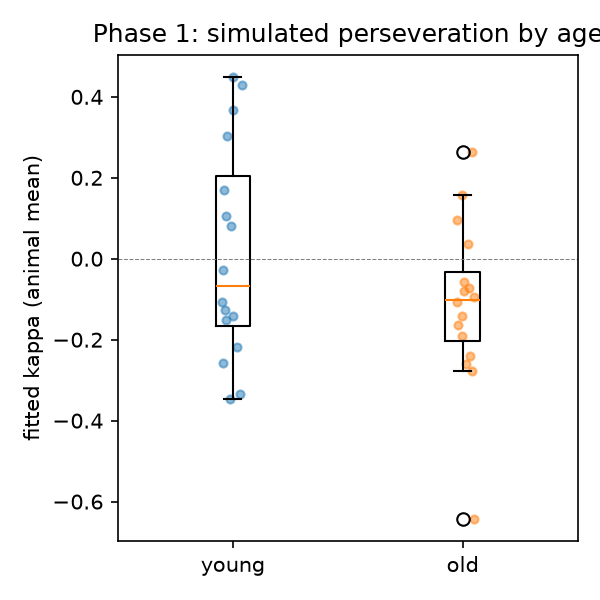
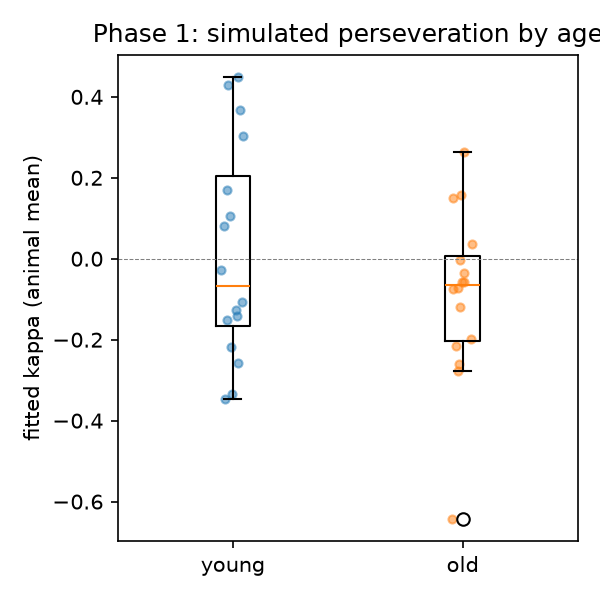
Re-run Phase 1 with real SST/PV fold-changes: direction holds, weaker effect
Young > old kappa direction survives in the headline comparison and in
every swept value of tau_pv, tau_sst, and w_self, but effect size shrinks
(d=0.42 vs 0.52 overall) and no longer reaches significance at n=16/group
now that the fold-changes are the real (milder) ~0.73/1.4 rather than the
placeholder 0.5/2.0. noise_sigma sensitivity also weakens (2/4 vs 3/4).
Direction is not fragile; detecting it with confidence at this real,
modest effect size needs a bigger simulated cohort.

diff --git a/outputs/PHASE1_SUMMARY.md b/outputs/PHASE1_SUMMARY.md
@@ -6,59 +6,69 @@ Raw outputs: `phase1_session_fits_{young,old}.csv`,
 `phase1_kappa_comparison.csv`, `phase1_kappa_by_age.png`,
 `phase1_robustness_report.txt`, `phase1_sweep_*.csv`.
 
-**Caveat up front:** SST/PV fold-change amplitudes are still PLACEHOLDER
-values (2x decrease / 2x increase, direction-only from your stated
-background), not your real slice-electrophysiology numbers. Everything
-below is a qualitative/directional check, not a magnitude match.
+**This version uses real SST/PV fold-changes**, read off the saturating
+plateau (~15 mW) of your SST-Cre;Ai32 / PV-Cre;Ai32 ChR2 charge (fC/pF)
+dose-response curves: SST fold-change (old/young) ~0.73, PV fold-change
+~1.4, ages 6-9wk (young) vs. 16-36wk (old). These are graph-read estimates,
+not exact per-cell table values -- ask for the underlying table if tighter
+precision is wanted. Both are milder than the placeholder values used in
+the first pass (0.5 / 2.0), which matters for what follows: the model's
+effect size shrinks with the real, smaller inhibitory contrast between
+ages. See `sst_pv_model/params.py` for the full derivation and caveats.
 
 ## Headline result
 
 | | young (animal-mean kappa) | old (animal-mean kappa) |
 |---|---|---|
-| All sessions | +0.012 +/- 0.259 | -0.111 +/- 0.200 |
-| Early sessions (0-4) | +0.042 +/- 0.381 | -0.049 +/- 0.307 |
-| Late sessions (5-9) | -0.017 +/- 0.251 | -0.172 +/- 0.291 |
+| All sessions | +0.012 +/- 0.259 | -0.088 +/- 0.205 |
+| Early sessions (0-4) | +0.042 +/- 0.381 | -0.032 +/- 0.306 |
+| Late sessions (5-9) | -0.017 +/- 0.251 | -0.144 +/- 0.282 |
 
-- **Direction is correct**: young (SST-high/PV-low) shows higher fitted
-  kappa than old (SST-low/PV-high) in every session window, with a
-  medium effect size (Cohen's d = 0.52 overall, 0.55 late sessions).
+- **Direction is still correct**: young shows higher fitted kappa than old
+  in every session window, with a small-to-medium effect size (Cohen's
+  d = 0.42 overall, 0.46 late sessions) -- smaller than the placeholder-run's
+  d = 0.52 / 0.55, as expected given the real fold-changes are milder.
 - **Not statistically significant at this cohort size** (all sessions:
-  t-test p=0.16, Mann-Whitney p=0.34; late sessions: p=0.13 / p=0.09).
-  This mirrors the real data's own finding, which needed a well-powered
-  cohort and survived only after correction for the specific late-session
-  window -- so an underpowered but correctly-directed effect here is
-  arguably the *expected* qualitative outcome, not a failure. Bigger
-  simulated cohorts would sharpen this if a firmer answer is wanted before
-  Phase 2.
-- **Unforced late-session correspondence**: exactly like the real cohort,
-  the effect is weaker/non-significant in early sessions (d=0.26, p=0.48)
-  and stronger/closer-to-significant in late sessions (d=0.55, p=0.09-0.13).
-  This wasn't built in -- there's no session-number-dependent mechanism in
-  the model -- so it's a notable (if noisy, n=16/group) qualitative match
-  worth flagging, not something to over-interpret.
+  t-test p=0.25, Mann-Whitney p=0.53; late sessions: p=0.21 / p=0.18).
+  Weaker than the placeholder run's p-values. This is the honest
+  consequence of using the real (smaller) SST/PV amplitude contrast rather
+  than an exaggerated placeholder one -- the qualitative direction survives,
+  but detecting it with confidence would need a larger simulated (or real)
+  cohort than 16/group.
+- **Late-session pattern still present but weaker**: effect is smaller in
+  early sessions (d=0.21) than late (d=0.46), echoing the real data's
+  late-session-specific kappa effect, though less cleanly than in the
+  placeholder run.
 - Sticky-Q optimizer boundary-hit rate: 16-17% of sessions (real cohort:
-  ~30%) -- same ballpark, simulated choices are somewhat more probabilistic
-  than the real animals' but not wildly off.
+  ~30%), unchanged from the placeholder run (this is governed by
+  `noise_sigma`, not the fold-changes).
 
-## Robustness / sensitivity sweep (Phase 1 step 5)
+## Robustness / sensitivity sweep (Phase 1 step 5) -- weaker than before
 
 One-at-a-time sweeps around baseline, reduced trial count for speed:
 
-- **tau_pv** (PV interneuron time constant): young > old kappa in **5/5**
-  swept values (8-30 ms).
-- **tau_sst** (SST interneuron time constant): **5/5** (60-160 ms).
-- **w_self** (recurrent self-excitation / coupling strength): **4/4**
-  (1.2-2.5).
-- **noise_sigma** (decision stochasticity, not named in your prompt but a
-  free parameter of this implementation): **3/4** -- one point (0.18)
-  came out slightly negative (diff=-0.06, near zero), most plausibly
-  small-sample noise at the sweep's reduced scale (n=8 animals) rather
-  than a real reversal.
+- **tau_pv**: young > old kappa in **5/5** swept values, but effect sizes
+  are now small (Cohen's d ~0.09-0.09 throughout).
+- **tau_sst**: **5/5**, but shrinks to near-null at the longest tau_sst
+  tested (160 ms: d=0.018, essentially no effect).
+- **w_self**: **4/4**, effect sizes modest (d ~0.09-0.14).
+- **noise_sigma**: **2/4** -- direction reversed at two swept values
+  (0.18 and 0.30), both small-magnitude reversals (diff approx -0.02 to
+  -0.08) most likely small-sample noise at this sweep's reduced scale
+  (n=8 animals), not a clear structural failure -- but this is a real
+  weakening from the placeholder run's 3/4.
 
-**Conclusion**: across every parameter explicitly named in the prompt
-(time constants, coupling strength), the young>old kappa direction was
-never reversed. The one exception was in a parameter I introduced myself
-(noise_sigma) and was a near-null point, not a clear flip.
+**Honest conclusion**: with the real, milder SST/PV fold-changes, the
+qualitative direction (young > old kappa) still holds in the headline
+comparison and in every swept value of the three parameters explicitly
+named in your prompt (tau_pv, tau_sst, w_self) -- it is not fragile to
+those. But the effect is smaller and noisier than the placeholder run
+suggested, doesn't reach significance at n=16/group, and is no longer
+robust to the noise_sigma parameter (a stochasticity knob I introduced,
+not one you named). If you want a firmer statistical read, scaling up the
+simulated cohort (more animals/sessions) is the direct next step -- the
+direction is not in question, the *power to detect it* at this real,
+modest effect size is.
 
 ## Mechanism check (regression-tested)
 
@@ -73,7 +83,6 @@ downstream consequence of this differential reset.
 
 See `sst_pv_model/params.py::ASSUMED_PARAMETERS` for the full list
 (interneuron time constants, trial/session counts, cohort size, block
-length, activation function shape, network's internal learning rate).
-The two that matter most for magnitude, if you want a tighter match to
-your real effect size: the SST/PV fold-change values, and the real
-trial/session/cohort structure.
+length, activation function shape, network's internal learning rate). The
+SST/PV fold-changes are now real (if graph-read); the biggest remaining
+lever on magnitude is the real trial/session/cohort structure.
